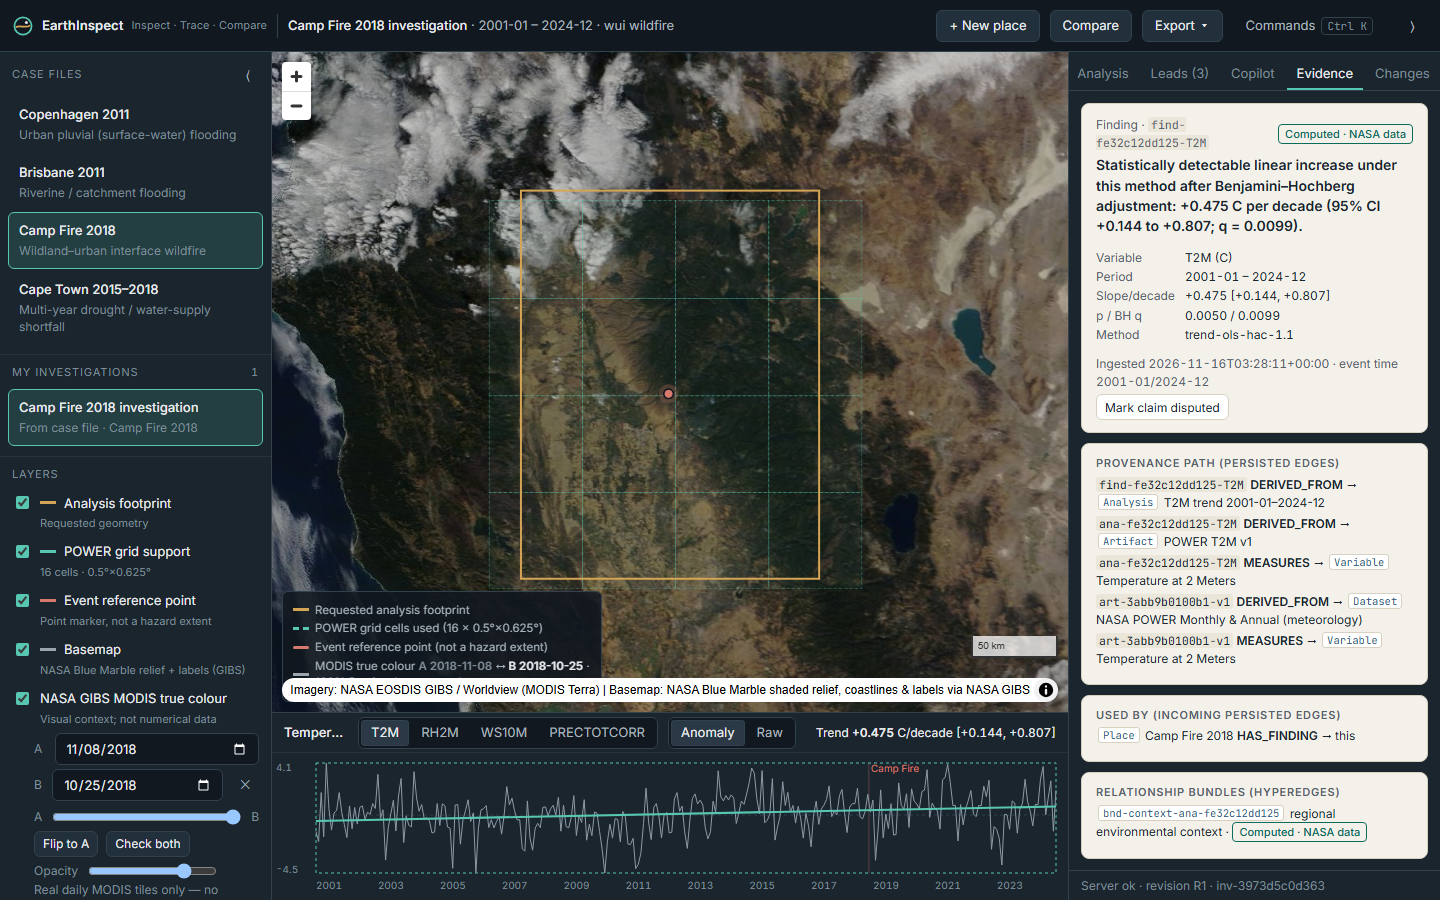
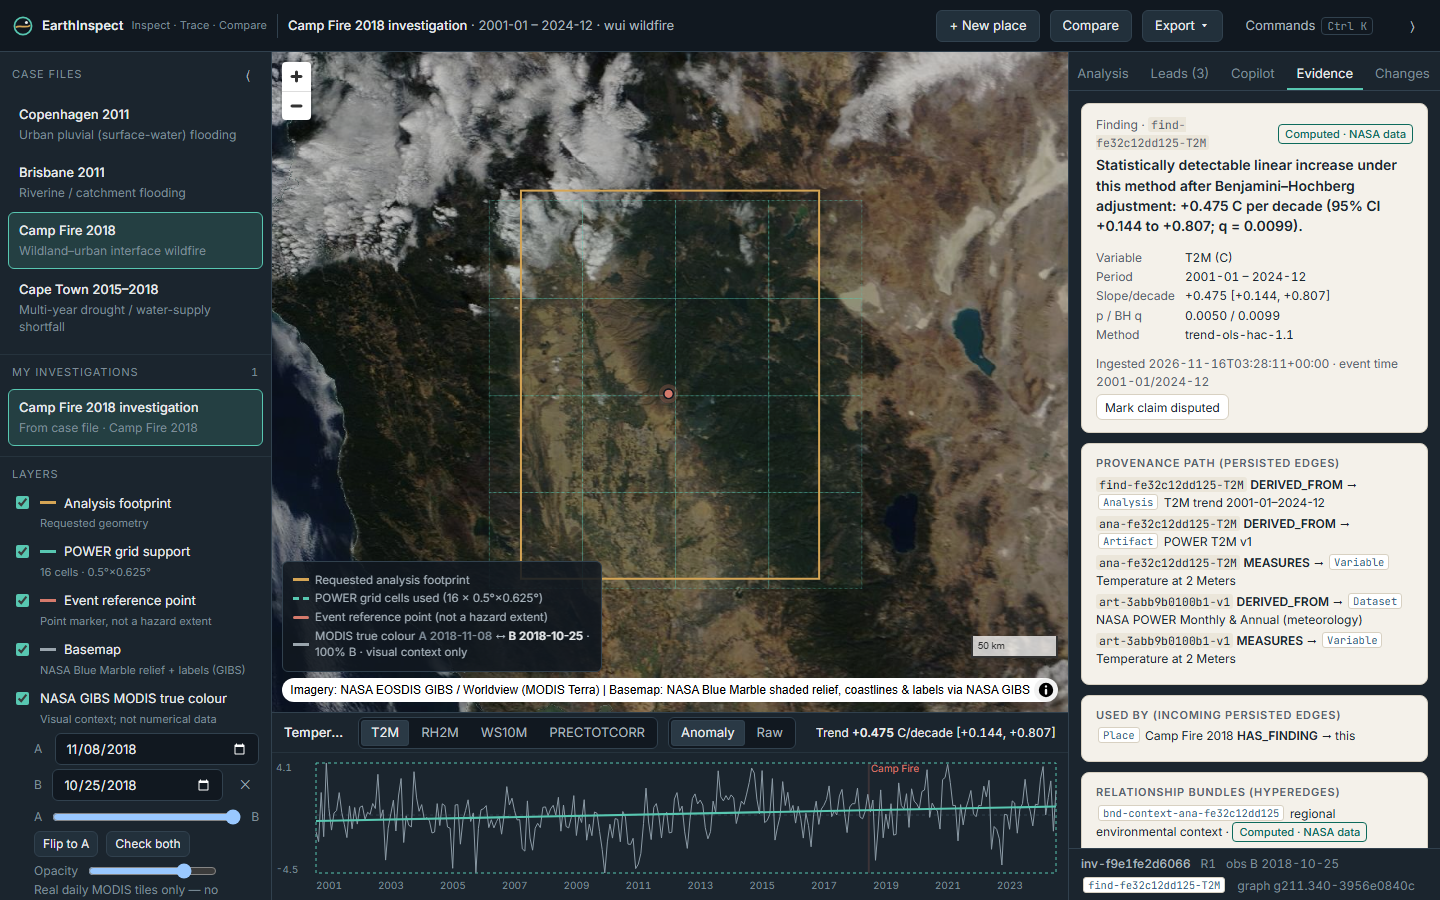
Canonical demo investigation and single focus state
- POST /api/demo reproduces the Camp Fire demo (cached NASA analysis, MODIS 2018-11-08 vs 2018-10-25,
  one labelled planning assumption) in the caller's own session; idempotent
- App keeps one canonical focus (investigation, revision, claim, observation date, graph version),
  drops stale async responses, shows a focus bar
- scripts/demo_check.py 13/13; pytest 20/20; e2e 31/31; flow 18/18

Claude-Session: https://claude.ai/code/session_01MWaaxMxSo8G6CJ7BjZGBx2

Changed region(s): [[0.1875, 0.6222, 0.4375, 0.7778], [0.75, 0.9333, 1.0, 0.9956]]

diff --git a/frontend/src/App.tsx b/frontend/src/App.tsx
@@ -68,16 +68,24 @@ export default function App() {
   const refreshList = async () => { const l = await api.get<any[]>('/api/investigations'); setInvList(l); return l }
 
   // ------------------------------------------------ investigation lifecycle
+  // Canonical selection: every async result is tagged with the investigation it belongs to and dropped if the
+  // user has since switched, so no panel can silently show a different investigation than the focus bar.
+  const activeInv = useRef<string | null>(null)
+  const isActive = (id: string) => activeInv.current === id
   const loadResults = useCallback(async (id: string) => {
     const r = await api.get<Results>(`/api/investigations/${id}/results`)
+    if (activeInv.current !== id) return r
     setResults(r)
     if (r.batch && !selVar) setSelVar(r.batch.results[0]?.variable || null)
     return r
   }, [selVar])
 
   const openInv = async (id: string, fly = true) => {
+    activeInv.current = id
+    setResults(null); setMatch(null); setChange(null)
     try {
       const i = await api.get<Investigation>(`/api/investigations/${id}`)
+      if (!isActive(id)) return
       setInv(i); setPreview(null); setMatch(null); setAcqEvents([]); setFocus(null)
       setNodeId(i.config.view.selected_node || null); setTrail(i.config.view.evidence_trail || [])
       setSelVar(i.config.view.selected_variable || null)
@@ -87,7 +95,8 @@ export default function App() {
       if (fly) setFlyKey(id + Date.now())
       setChange(null)
       const r = await loadResults(id)
-      if (r.batch) api.get<MatchRun>(`/api/investigations/${id}/match`).then(setMatch).catch(() => {})
+      if (!isActive(id)) return
+      if (r.batch) api.get<MatchRun>(`/api/investigations/${id}/match`).then(m => isActive(id) && setMatch(m)).catch(() => {})
       const lc = i.config.view.last_change
       if (lc && i.revisions.some(x => x.id === lc.from) && lc.to === i.current_revision_id) loadChange(id, lc.from, lc.to)
     } catch (e) { fail(e) }
@@ -105,6 +114,7 @@ export default function App() {
   const switchTab = (t: Tab) => { setTab(t); if (inv) patchView({ inspector_tab: t }) }
 
   const openCase = async (c: CaseFile) => {
+    activeInv.current = null
     const full = await api.get<CaseFile>(`/api/cases/${c.id}`)
     setPreview(full); setInv(null); setResults(null); setMatch(null); setTab('case'); setFlyKey(c.id + Date.now())
     history.replaceState(null, '', location.pathname)
@@ -147,7 +157,12 @@ export default function App() {
   }
   const [change, setChange] = useState<any>(null)
   const loadChange = async (id: string, from: string, to: string) => {
-    try { setChange(await api.get(`/api/investigations/${id}/what-changed?frm=${from}&to=${to}`)) } catch { setChange(null) }
+    try { const d = await api.get(`/api/investigations/${id}/what-changed?frm=${from}&to=${to}`); if (isActive(id)) setChange(d) } catch { setChange(null) }
+  }
+  const openDemo = async () => {
+    setBusy('open')
+    try { const i = await api.post<Investigation>('/api/demo'); await refreshList(); await openInv(i.id); say('Demo investigation ready: Camp Fire 2018 with two real imagery dates and one labelled planning assumption.') }
+    catch (e) { fail(e) } finally { setBusy(null) }
   }
   const revise = async (body: any) => {
     if (!inv) return
@@ -199,11 +214,23 @@ export default function App() {
   const imageryDateB = inv?.config.view.imagery_date_b ?? null
   const imageryMix = inv?.config.view.imagery_mix ?? 0
   const today = new Date().toISOString().slice(0, 10)
+  // The one canonical focus every panel reads from.
+  const focusState = inv ? {
+    investigation: inv.id,
+    revision: inv.current_revision_id,
+    revisionSeq: inv.revisions.find(r => r.id === inv.current_revision_id)?.seq,
+    claim: nodeId,
+    observation: imageryDateB && imageryMix >= 0.5 ? imageryDateB : imageryDate,
+    observationLabel: imageryDateB ? (imageryMix >= 0.5 ? 'B' : 'A') : null,
+    graph: match?.graph_version ?? null,
+    matchRun: match?.id ?? null,
+  } : null
   const defaultDateB = (a: string | null) => { if (!a) return null; const d = new Date(a + 'T00:00:00Z'); d.setUTCDate(d.getUTCDate() - 14); return d.toISOString().slice(0, 10) }
   const hasResults = !!results?.batch
   const exportsDisabled = !inv ? 'Open an investigation first' : !hasResults ? 'Acquire NASA data first' : null
 
   const cmds: Cmd[] = useMemo(() => [
+    { id: 'demo', label: 'Open demo investigation (Camp Fire 2018)', run: () => openDemo() },
     { id: 'new', label: 'Investigate another place…', run: () => setNewPlace(true) },
     ...cases.map(c => ({ id: 'case-' + c.id, label: `Open case file: ${c.display_name}`, run: () => openCase(c) })),
     ...invList.map(i => ({ id: 'inv-' + i.id, label: `Open investigation: ${i.title}`, run: () => openInv(i.id) })),
@@ -392,14 +419,18 @@ export default function App() {
               <h3>Start an investigation</h3>
               <p>Each case file opens its location, event, documented responses and original sources. NASA trend findings are computed only when you acquire data.</p>
               {meta && <p className="small muted">{meta.catalog_counts.entries} catalog entries · {meta.catalog_counts.analysis_ready_adapters} numerical adapter (NASA POWER) · {meta.catalog_counts.imagery_adapters} imagery layer (GIBS) · copilot: {meta.llm.available ? meta.llm.model : 'Guided analysis (no model key)'}</p>}
-              <button className="btn primary" onClick={() => setNewPlace(true)}>Investigate another place</button>
+              <div className="row wrap">
+                <button className="btn primary" onClick={openDemo} disabled={busy === 'open'}>{busy === 'open' ? 'Preparing…' : 'Open demo investigation'}</button>
+                <button className="btn" onClick={() => setNewPlace(true)}>Investigate another place</button>
+              </div>
+              <p className="small muted">Demo: Camp Fire 2018 — real NASA trends, MODIS 2018-11-08 vs 2018-10-25, one labelled planning assumption that changes a planning lead.</p>
             </div>
           )}
           {tab === 'case' && caseOf && <CasePanel c={caseOf} busy={busy === 'open'} onOpen={() => inv ? switchTab('analysis') : createFromCase(caseOf)} onNode={id => inv ? showNode(id) : say('Open the investigation to inspect graph evidence.')} />}
           {inv && meta && tab === 'analysis' && <AnalysisPanel inv={inv} results={results} busy={busy === 'acquire'} onAcquire={acquire} selectedVar={selVar} onSelectVar={v => { setSelVar(v); patchView({ selected_variable: v }) }} onNode={showNode} acqEvents={acqEvents} />}
           {inv && meta && tab === 'leads' && <LeadsPanel inv={inv} meta={meta} match={match} busy={busy === 'match'} onRun={runMatch} onTrace={trace} onNode={id => showNode(id)} onRevise={revise} hasResults={hasResults}
             change={change} onDismissChange={() => { setChange(null); patchView({ last_change: null }) }} />}
-          {inv && meta && tab === 'copilot' && <CopilotPanel invId={inv.id} meta={meta} onNode={showNode} onTab={t => switchTab(t as Tab)} />}
+          {inv && meta && tab === 'copilot' && <CopilotPanel key={inv.id} invId={inv.id} meta={meta} onNode={showNode} onTab={t => switchTab(t as Tab)} />}
           {inv && tab === 'evidence' && <EvidencePanel nodeId={nodeId} onNode={id => showNode(id)} disputed={inv.state.disputed} onFocusFinding={focusFinding}
             trail={trail} onTrail={id => showNode(id, true)}
             onDispute={(id, on) => { const why = window.prompt(on ? 'Why is this claim disputed?' : 'Why remove the dispute?'); if (why) revise({ kind: on ? 'dispute' : 'undispute', node_id: id, rationale: why }) }} />}
@@ -407,7 +438,15 @@ export default function App() {
         </div>
         <footer className="small muted" style={{ borderTop: '1px solid var(--line)', padding: '6px 12px' }} role="status" aria-live="polite">
           {busy ? <span className="row"><span className="spinner" />{busy === 'acquire' ? 'Acquiring / analysing…' : busy === 'match' ? 'Evaluating precedents…' : 'Working…'}</span>
-            : health === 'ok' ? <>Server ok{inv ? <> · revision R{inv.revisions.find(r => r.id === inv.current_revision_id)?.seq} · {inv.id}</> : ''}</> : health === 'down' ? 'Server unreachable' : 'Connecting…'}
+            : health === 'down' ? 'Server unreachable' : focusState ? (
+              <span className="focusbar" data-testid="focus-bar" title="Canonical focus shared by all panels">
+                <span><b>{focusState.investigation}</b></span>
+                <span>R{focusState.revisionSeq}</span>
+                {focusState.observation && layers.imagery && <span>obs {focusState.observationLabel ? `${focusState.observationLabel} ` : ''}{focusState.observation}</span>}
+                {focusState.claim && <button className="cite" onClick={() => showNode(focusState.claim!)} title="Selected claim">{focusState.claim.length > 22 ? focusState.claim.slice(0, 22) + '…' : focusState.claim}</button>}
+                {focusState.graph && <span>graph {focusState.graph}</span>}
+              </span>
+            ) : health === 'ok' ? 'Server ok' : 'Connecting…'}
         </footer>
       </aside>
 

diff --git a/frontend/src/index.css b/frontend/src/index.css
@@ -269,3 +269,6 @@ details.events > summary { list-style: none; }
 .tn.chg { box-shadow: 0 0 0 3px var(--amber); }
 
 .mapwrap > .map-legend { bottom: 40px; }
+
+.focusbar { display: flex; flex-wrap: wrap; gap: 4px 10px; align-items: center; font-variant-numeric: tabular-nums; }
+.focusbar b { color: var(--text-2); font-weight: 500; }

diff --git a/backend/scripts/demo_check.py b/backend/scripts/demo_check.py
@@ -1,0 +1,56 @@
+"""Acceptance: fresh browser session → Open demo investigation → canonical focus consistent across panels → reload."""
+import sys
+
+from playwright.sync_api import sync_playwright
+
+base = sys.argv[1] if len(sys.argv) > 1 else "http://127.0.0.1:8000"
+ok = []
+
+
+def check(c, m):
+    ok.append(bool(c))
+    print(("PASS " if c else "FAIL ") + m)
+
+
+with sync_playwright() as p:
+    b = p.chromium.launch(headless=True, args=["--enable-unsafe-swiftshader"])
+    pg = b.new_context(viewport={"width": 1440, "height": 900}).new_page()
+    errs = []
+    pg.on("pageerror", lambda e: errs.append(str(e)))
+    pg.goto(base)
+    pg.wait_for_timeout(1500)
+    pg.get_by_role("button", name="Open demo investigation").click()
+    pg.wait_for_timeout(5000)
+    inv_id = pg.evaluate("new URLSearchParams(location.search).get('inv')")
+    fb = pg.get_by_test_id("focus-bar")
+    check(inv_id and fb.count() == 1 and inv_id in fb.inner_text(), f"demo opened; focus bar shows same investigation as URL ({inv_id})")
+    check("Demo — Camp Fire 2018" in pg.locator(".cmdbar").inner_text(), "command bar names the same investigation")
+    check("R1" in fb.inner_text(), "focus bar shows revision R1 (labelled assumption applied)")
+    check("obs A 2018-11-08" in fb.inner_text(), "focus bar shows observation date A 2018-11-08")
+    check(pg.get_by_label("Imagery date B").input_value() == "2018-10-25", "imagery date B = 2018-10-25")
+    check(pg.locator(".change-banner").count() == 1, "leads show the assessment change produced by the assumption")
+    check("graph g" in fb.inner_text(), "focus bar shows graph version from the match run")
+    pg.get_by_role("button", name="Flip to B").click()
+    pg.wait_for_timeout(800)
+    check("obs B 2018-10-25" in fb.inner_text(), "flipping imagery updates the canonical observation date")
+    pg.get_by_role("tab", name="Analysis").click()
+    pg.wait_for_timeout(800)
+    pg.get_by_role("button", name="Trace provenance").first.click()
+    pg.wait_for_timeout(1200)
+    claim = pg.locator(".insp-body .sheet code").first.inner_text()
+    check(claim and claim[:15] in fb.inner_text(), f"selected claim in focus bar matches evidence sheet ({claim})")
+    pg.screenshot(path="../docs/screenshots/demo-canonical-focus.png")
+    # second investigation then back: no stale panels
+    pg.get_by_role("button", name="Copenhagen 2011").first.click()
+    pg.wait_for_timeout(1500)
+    check(pg.get_by_test_id("focus-bar").count() == 0, "case preview clears investigation focus (no stale investigation shown)")
+    pg.goto(f"{base}/?inv={inv_id}")
+    pg.wait_for_timeout(4000)
+    fb = pg.get_by_test_id("focus-bar")
+    check(inv_id in fb.inner_text() and "R1" in fb.inner_text() and "obs B 2018-10-25" in fb.inner_text(), "reload restores the same canonical focus")
+    # idempotent demo endpoint
+    again = pg.evaluate("fetch('/api/demo',{method:'POST'}).then(r=>r.json()).then(j=>j.id)")
+    check(again == inv_id, "POST /api/demo is idempotent per session")
+    check(not errs, f"no page errors {errs[:2]}")
+    b.close()
+print(f"{sum(ok)}/{len(ok)} passed")

diff --git a/backend/app/services.py b/backend/app/services.py
@@ -504,6 +504,37 @@ def latest_findings(session_id: str, iid: str) -> list[dict]:
     return sorted(out, key=lambda n: n["props"]["variable"])
 
 
+DEMO_SPEC = {
+    "case_id": "camp-fire-2018",
+    "title": "Demo — Camp Fire 2018 investigation",
+    "imagery_date": "2018-11-08",    # event day: MODIS shows the smoke plume
+    "imagery_date_b": "2018-10-25",  # two weeks earlier: clear
+    "assumption": {
+        "kind": "set_requirement", "requirement_id": "req-wui-exposure", "state": "satisfied",
+        "basis": "analyst_assumption",
+        "rationale": "Demo scenario: target community is adjacent to wildland fuels (planning assumption, not a sourced fact).",
+    },
+}
+
+
+def create_demo_investigation(session_id: str) -> dict:
+    """Reproduce the canonical demonstration investigation inside the CALLER's session using only existing
+    services (case → cached NASA analysis → imagery dates → one labelled planning assumption). Idempotent per session."""
+    with db.conn() as c:
+        r = c.execute("SELECT id FROM investigations WHERE session_id=? AND title=?", (session_id, DEMO_SPEC["title"])).fetchone()
+    if r:
+        return get_investigation(session_id, r["id"])
+    inv = create_investigation(session_id, {"case_id": DEMO_SPEC["case_id"], "title": DEMO_SPEC["title"]})
+    iid = inv["id"]
+    run_trends_for(session_id, iid)
+    r0 = inv["current_revision_id"]
+    update_view(session_id, iid, {"view": {"imagery_date": DEMO_SPEC["imagery_date"], "imagery_date_b": DEMO_SPEC["imagery_date_b"],
+                                           "imagery_mix": 0, "layers": {**inv["config"]["view"]["layers"], "imagery": True},
+                                           "inspector_tab": "leads"}})
+    inv = add_revision(session_id, iid, dict(DEMO_SPEC["assumption"]))
+    return update_view(session_id, iid, {"view": {"last_change": {"from": r0, "to": inv["current_revision_id"]}}})
+
+
 def latest_public_findings(place_id: str, period: dict) -> list[dict]:
     """Findings for a seed place: newest method version, newest ingestion per variable (older ones stay in the graph)."""
     from .config import TREND_METHOD_VERSION

diff --git a/backend/app/main.py b/backend/app/main.py
@@ -118,6 +118,12 @@ async def inv_create(request: Request):
     return services.create_investigation(sid(request), await request.json())
 
 
+@app.post("/api/demo")
+def demo(request: Request):
+    """Canonical demonstration investigation, reproduced in the caller's own session (isolation preserved)."""
+    return services.create_demo_investigation(sid(request))
+
+
 @app.get("/api/investigations/{iid}")
 def inv_get(iid: str, request: Request):
     return services.get_investigation(sid(request), iid)

diff --git a/BUILD_STATE.md b/BUILD_STATE.md
@@ -50,3 +50,26 @@ Phases (derived from the target flow; the pasted brief did not list them):
 | 5 Graph + assessment update | ✅ | Automatic what-changed banner (eligibility, match, coverage, feature states, top lead); Trace marks changed nodes and shows the new Assumption node. Example: assuming WUI exposure moved top lead evacuation planning → multichannel notification (needs local evidence → candidate lead). |
 | 6 Reopen saved result | ✅ | Reload restores imagery A/B + mix, inspector tab, evidence trail/selected node, last change banner, revisions. |
 Regression: pytest 20/20, e2e 31/31. Finished 22:17, ~52 min before deadline. No backend schema changes; view state uses the existing investigation view config.
+
+## Sprint 3 — canonical demo state (22:21 PST)
+**Inspection (verified in code, not just the report):**
+| concern | frontend | backend endpoint → function |
+|---|---|---|
+| Investigation selection/persistence | `App.tsx` openInv (L78), patchView (L96), ?inv= URL + localStorage | GET/POST `/api/investigations`, GET/PATCH `/api/investigations/{iid}` → services.create_investigation / get_investigation / update_view |
+| GIBS imagery dates | `App.tsx` imageryDate/imageryDateB/imageryMix, checkImagery; `MapView.tsx` gibs/gibsB layers | GET `/api/imagery/check` (main.py); dates stored in view config via PATCH |
+| Findings & provenance | `panels.tsx` AnalysisPanel/TrendCard, EvidencePanel; `Timeline.tsx` readout | POST `/analyze` → services.run_trends_for; GET `/results`; GET `/api/graph/node`, `/provenance`, `/neighborhood` |
+| Matching & revisions | `panels.tsx` LeadsPanel/ReqActions/ChangeBanner/ChangesPanel; `App.tsx` revise/loadChange | GET `/match` → matching.run_match; POST `/revisions` → services.add_revision; POST `/revisions/{rid}/activate`; GET `/what-changed` |
+| Graph rendering | `TraceView.tsx` (React Flow, layered) | GET `/trace/{intervention_id}` → trace.build |
+| Copilot | `CopilotPanel.tsx` (polls run) | POST/GET `/copilot`, GET `/api/copilot/{rid}`, POST cancel → copilot.start/_execute (guided | llm) |
+Server-side model credential: **not configured** (`/api/health` llm.available=false); guided mode only.
+Demo choice: Camp Fire 2018 — complete v1.1 analysis, working GIBS dates 2018-11-08 (plume) / 2018-10-25 (clear), assumption *WUI exposure satisfied* changes top lead (evacuation planning → multichannel notification). Existing copy inv-3973d5c0d363 is owned by a test session (isolation holds), so the demo is reproduced per caller.
+
+**Checklist (next five phases → files/endpoints):**
+1. Canonical demo: `POST /api/demo` (main.py) → services.create_demo_investigation (create_investigation → run_trends_for → update_view → add_revision); `App.tsx` "Open demo investigation" (empty state + palette).
+2. Canonical focus state: `App.tsx` single `focus` = {investigation, revision, claim, observation date, graph version}; stale-response guard on investigation switch; focus bar in inspector footer.
+3. Observation dates → claim: date A/B shown in focus bar; `Timeline.tsx` marks imagery dates on the series.
+4. Claim → evidence → revision: EvidencePanel / ReqActions reuse `/api/graph/*` + `/revisions` (no new endpoints).
+5. Update + reopen: `/what-changed` banner + `/trace` with changed nodes; `?inv=` reload restores focus (view config).
+
+**Sprint 3 result (22:23):** `POST /api/demo` reproduces the canonical Camp Fire demo in the caller's session (idempotent; isolation preserved). `App.tsx` keeps one canonical focus {investigation, revision, claim, observation date, graph version} shown in the inspector focus bar; stale async responses from a previously selected investigation are dropped. `scripts/demo_check.py` 13/13 (docs/demo_check_output.txt). Regression: pytest 20/20, e2e 31/31, flow 18/18. Model credential: not configured (guided mode only).
+
